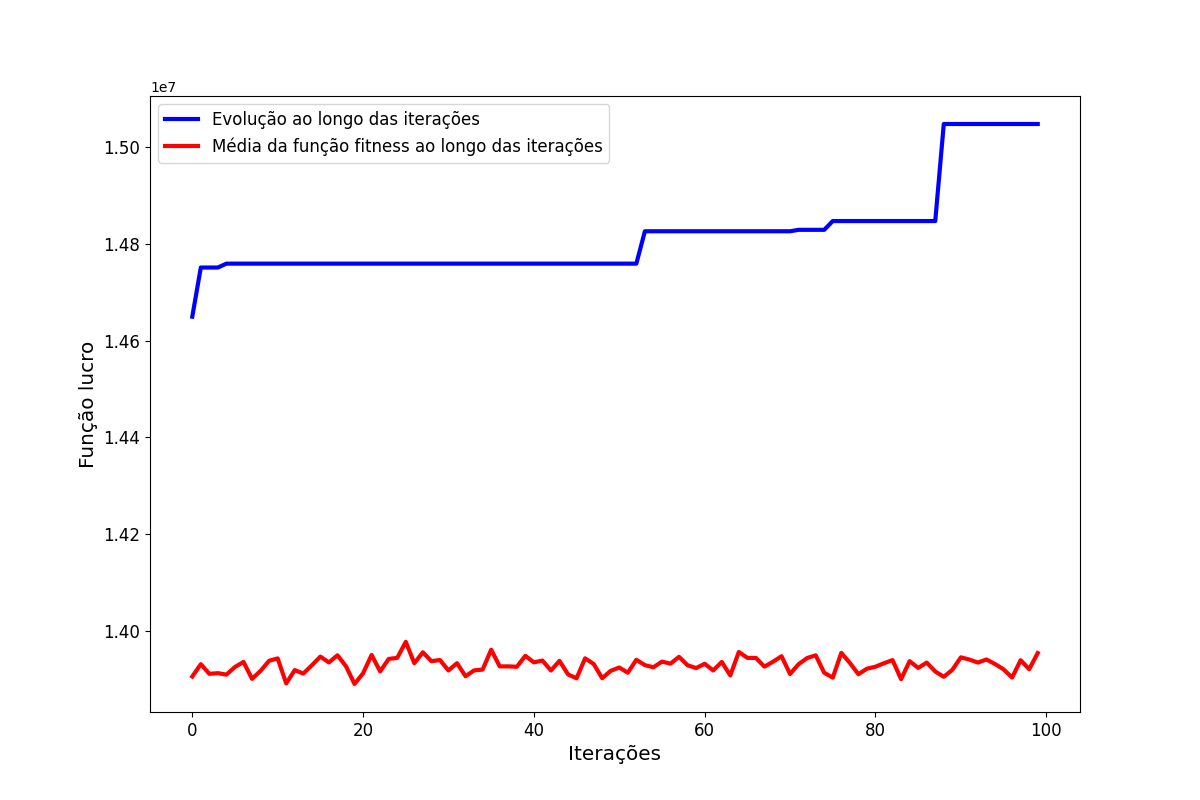
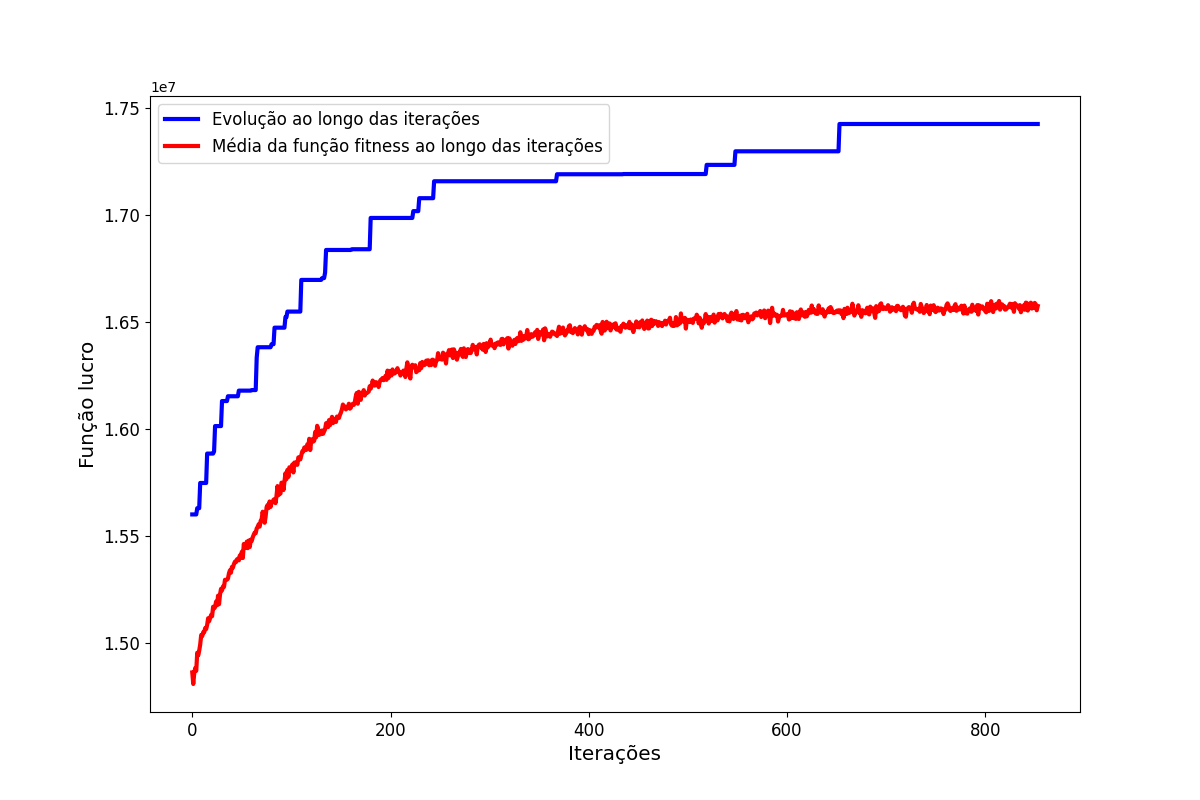
adjust some logic

diff --git a/antcolony.py b/antcolony.py
@@ -8,11 +8,11 @@ def fitness(solution, pairsWeight):
 def antColony(nTrips, nVehicles, nWorkers, durations, depreciation, benefit):
 
   nAnts = nTrips
-  nIter = 50
-  pheromonyInfluence = 0.5
-  weightInfluence = 0.5
+  nIter = 200
+  pheromonyInfluence = 5
+  weightInfluence = 0.02
   amountPheromony = 100000
-  evaporationRate = 0.1
+  evaporationRate = 0.2
 
   best = list
   lucros = []
@@ -30,7 +30,7 @@ def antColony(nTrips, nVehicles, nWorkers, durations, depreciation, benefit):
   #print(pheromony)
   it = 0
   itNoBetter = 0
-  while it < 100:
+  while itNoBetter < nIter:
     solutions = []
       # totalPheromony = sum([sum(p) / pheromonyInfluence for p in pheromony]) / len(pheromony)
     totalPheromony = sum([sum(p) for p in pheromony]) / len(pheromony)
@@ -108,6 +108,6 @@ def antColony(nTrips, nVehicles, nWorkers, durations, depreciation, benefit):
   print(f'Lucro total: {best_final}')
   improvement = (best_final / best_0) - 1
   print(f'Percentual de melhora ao longo das iterações: {improvement*100}%')
-  grafico_linha(range(100),media, lucros, 'lucro_total_iteracoes', improvement*100)
+  grafico_linha(range(it),media, lucros, 'lucro_total_iteracoes', improvement*100)
   return best_final, improvement*100
   #print(pheromony)
